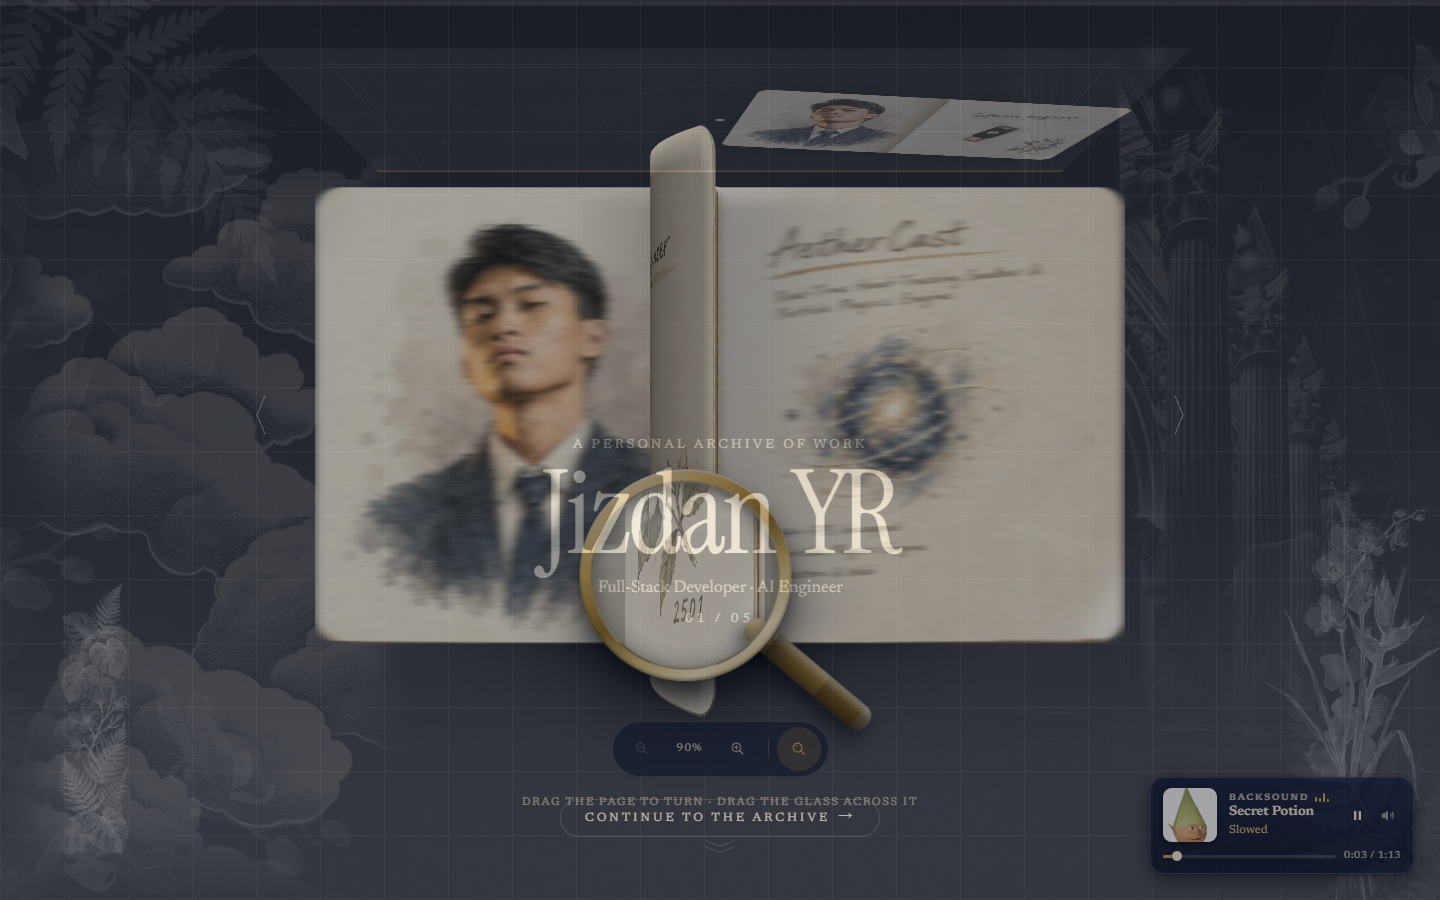
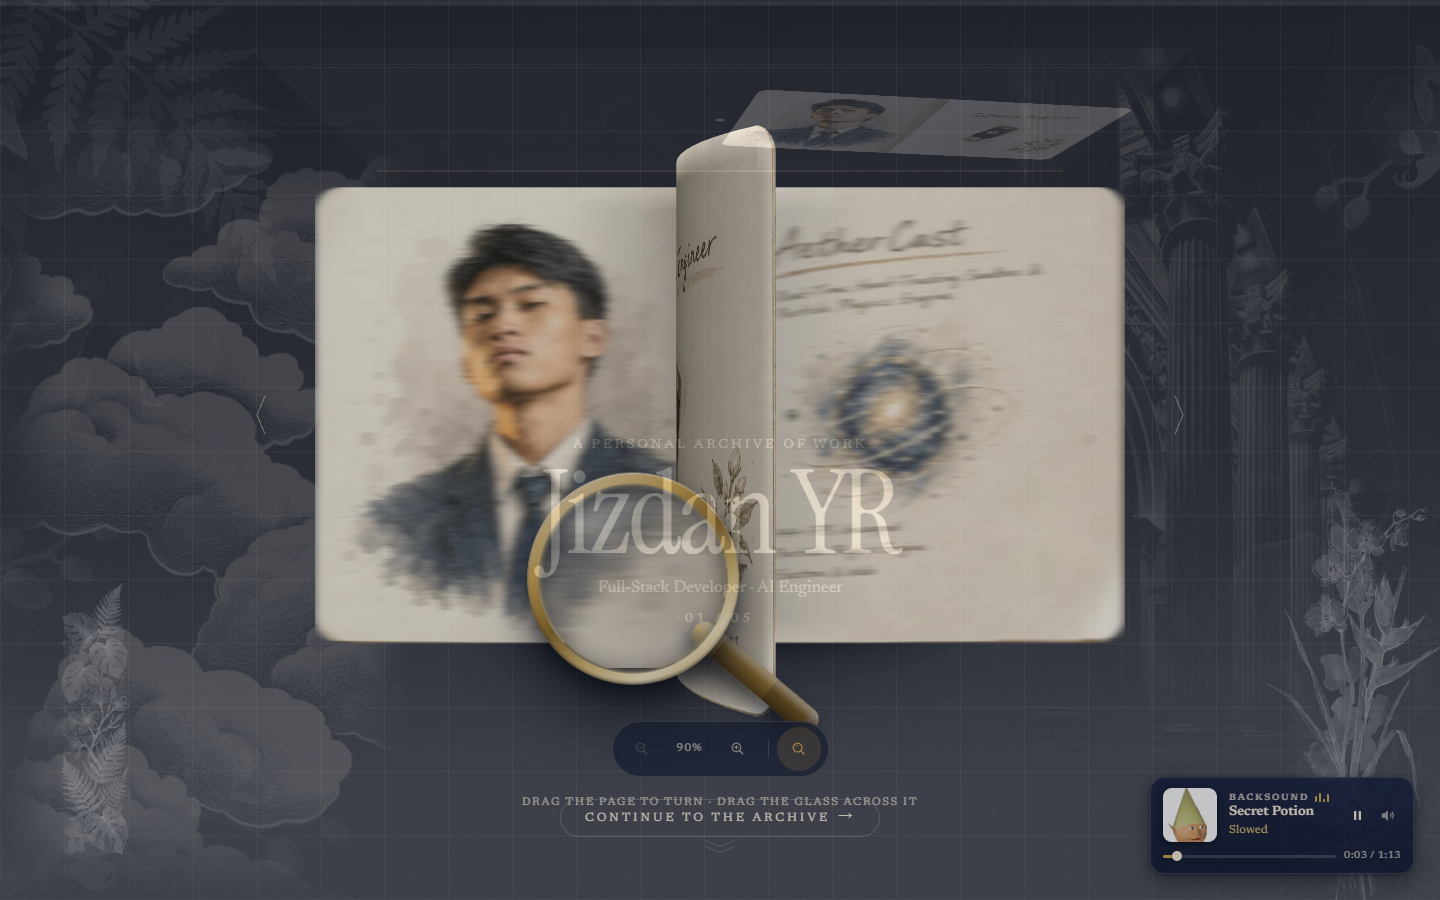
fix(intro): make the stamped name legible over the held portrait
The name is cream ink (--ink #EFE7D6) and the held portrait spread is pale
cream paper, so where the centred name crosses the plate the overlapped
letters washed out. Measured at 1440x900: the name box (x 561-861,
y 400-495) intersects the portrait plate (x 713-1190, y 249-568) by
149x95px - the right half of 'Jizdan YR'.

Add a dark ground-tinted halo (text-shadow, two soft blurs) to the whole
stamp, so the ink reads as ink stamped on paper rather than a sticker.
Seat, fan, exit and both mobile/reduced-motion ladders are untouched.

Verified: settled frame read by eye at 1440x900 and 390x844 (the two
widths the harness screenshots); npm run build clean (39 modules, 714ms);
node tools/verify-entrance.mjs 43/43 pass, exit 0. The six shots in
shots/entrance/ are the regenerated acceptance frames.

Changed region(s): [[0.2188, 0.0933, 0.7812, 0.8089], [0.7812, 0.8711, 0.8438, 0.9644]]

diff --git a/public/landing-pages/chin-portfolio.html b/public/landing-pages/chin-portfolio.html
@@ -2034,9 +2034,11 @@
         align-items: center;
         text-align: center;
         pointer-events: none;
-        /* The name "stamps onto the held portrait" (01-concept.md §1). The
-           portrait plate resolves in the same visual centre, so the stamp must
-           paint above it or the right half of the name is occluded. */
+        /* The name "stamps onto the held portrait" (01-concept.md §1): the
+           portrait plate resolves centre-right and the name is centred, so the
+           right half of the name lands ON the pale spread. Both are cream, so
+           without a halo the overlapped letters vanish into the paper. The
+           seat is unchanged; the legibility is bought with a shadow. */
         z-index: 1;
       }
       .intro-kicker,
@@ -2045,6 +2047,12 @@
       .intro-index {
         opacity: 0;
         will-change: transform, opacity;
+        /* The halo that keeps the stamp readable where it crosses the portrait:
+           a dark ground-tinted blur, never a hard outline, so the ink still
+           reads as ink stamped on paper rather than a sticker. Measured over
+           the held plate at both 1440x900 and 390x844 (the two widths the
+           acceptance harness screenshots). */
+        text-shadow: 0 3px 22px rgba(2, 5, 14, .92), 0 1px 7px rgba(2, 5, 14, .8);
       }
       .intro-kicker {
         font-family: var(--font);
